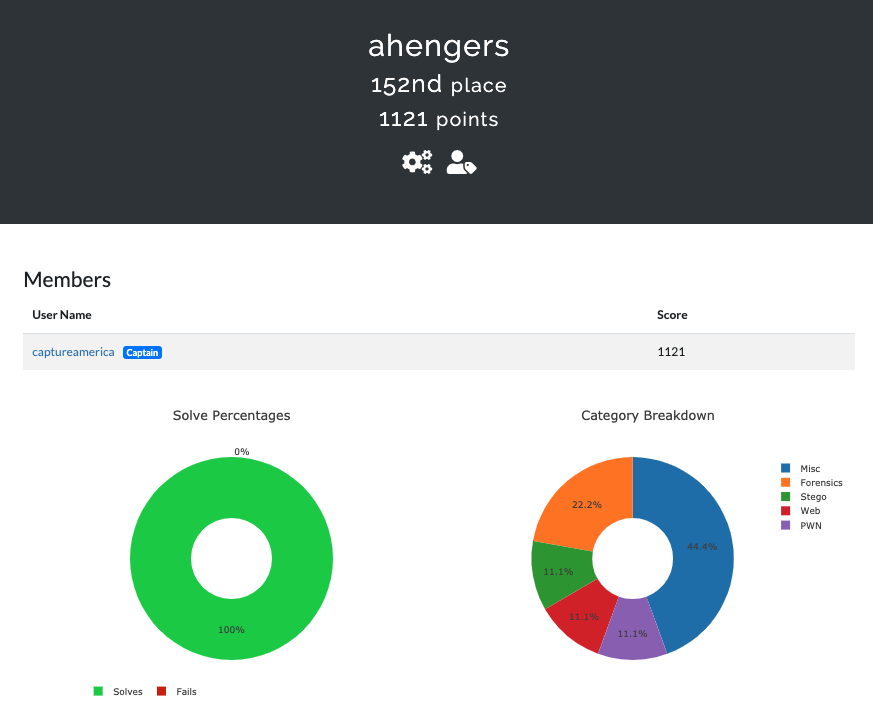
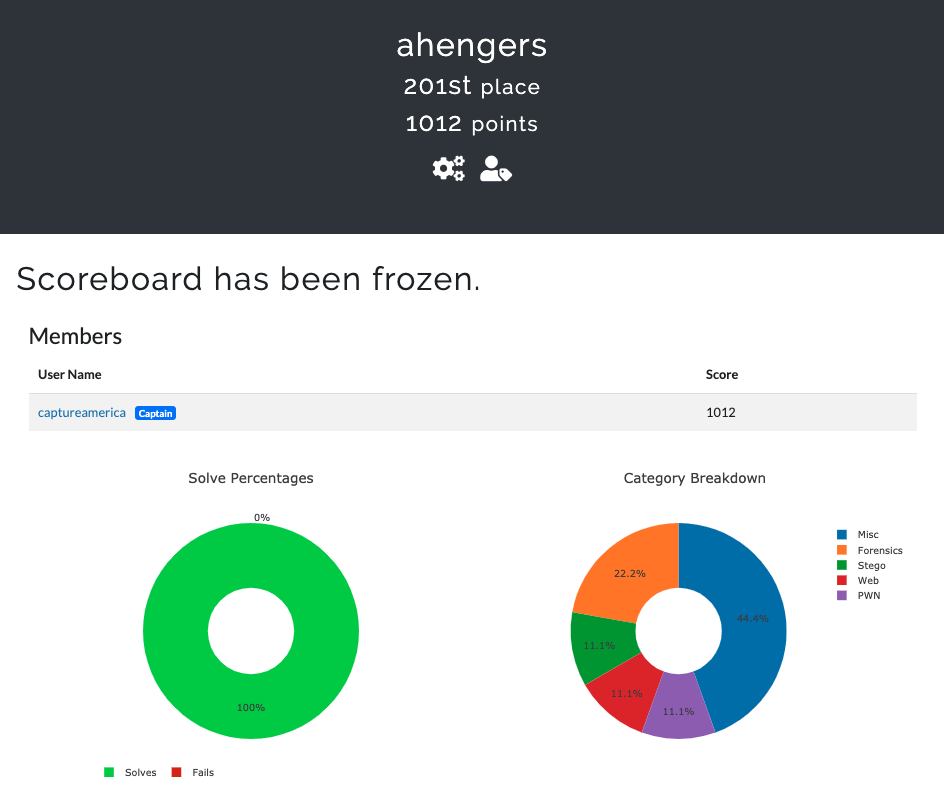
2019/11/18_RITSEC_CTF_2019_writeup

diff --git a/content/post/ritsec_ctf_2019.md b/content/post/ritsec_ctf_2019.md
@@ -12,7 +12,7 @@ author: "きゃぷあめ"
 URL: [https://ctf.ritsec.club/challenges](https://ctf.ritsec.club/challenges)
 <br /><br />
 
-以下のスコアは、イベント中のものなので、最終順位はもう少し下がっているはずです。。。
+1012ポイントで、201番でした。
 
 <img src="https://captureamerica.github.io/writeups/img/ritsec_ctf_2019_score1.png" alt="ritsec_ctf_2019_score1.png"> <br />
 <img src="https://captureamerica.github.io/writeups/img/ritsec_ctf_2019_score2.png" alt="ritsec_ctf_2019_score2.png">
